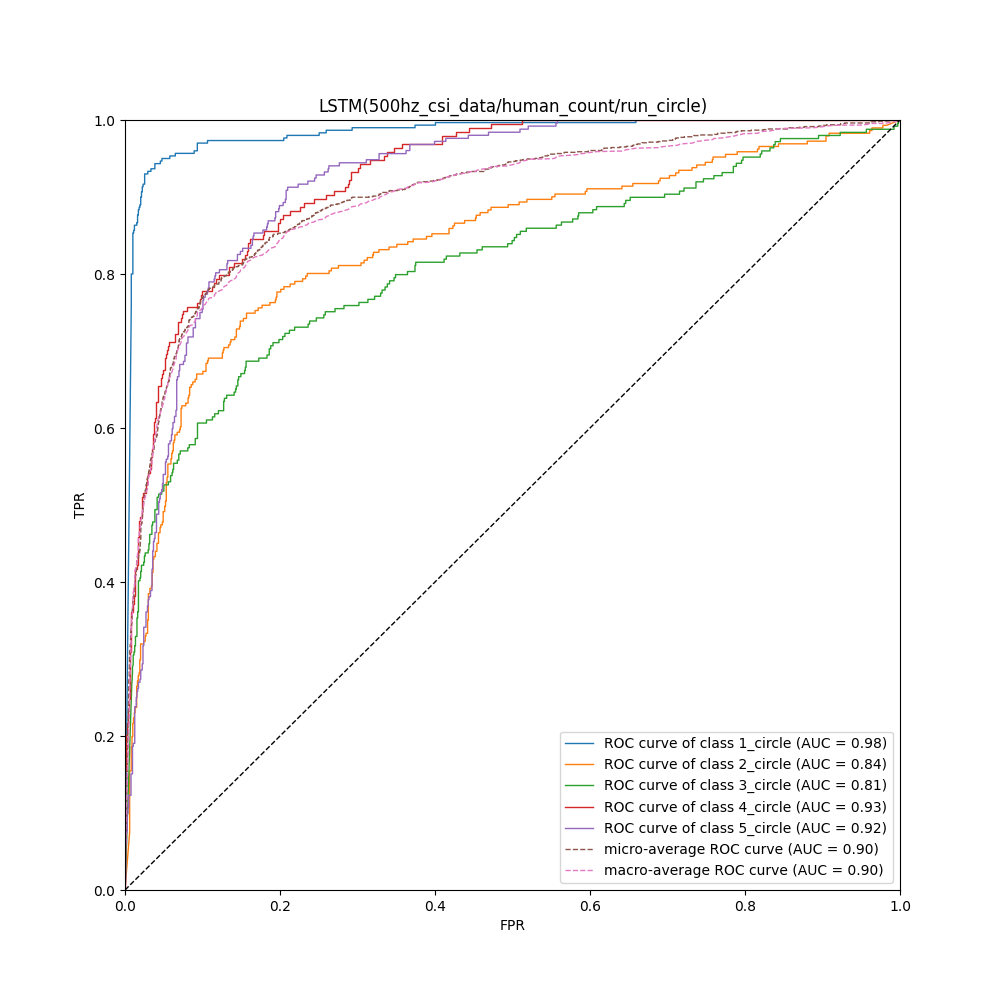
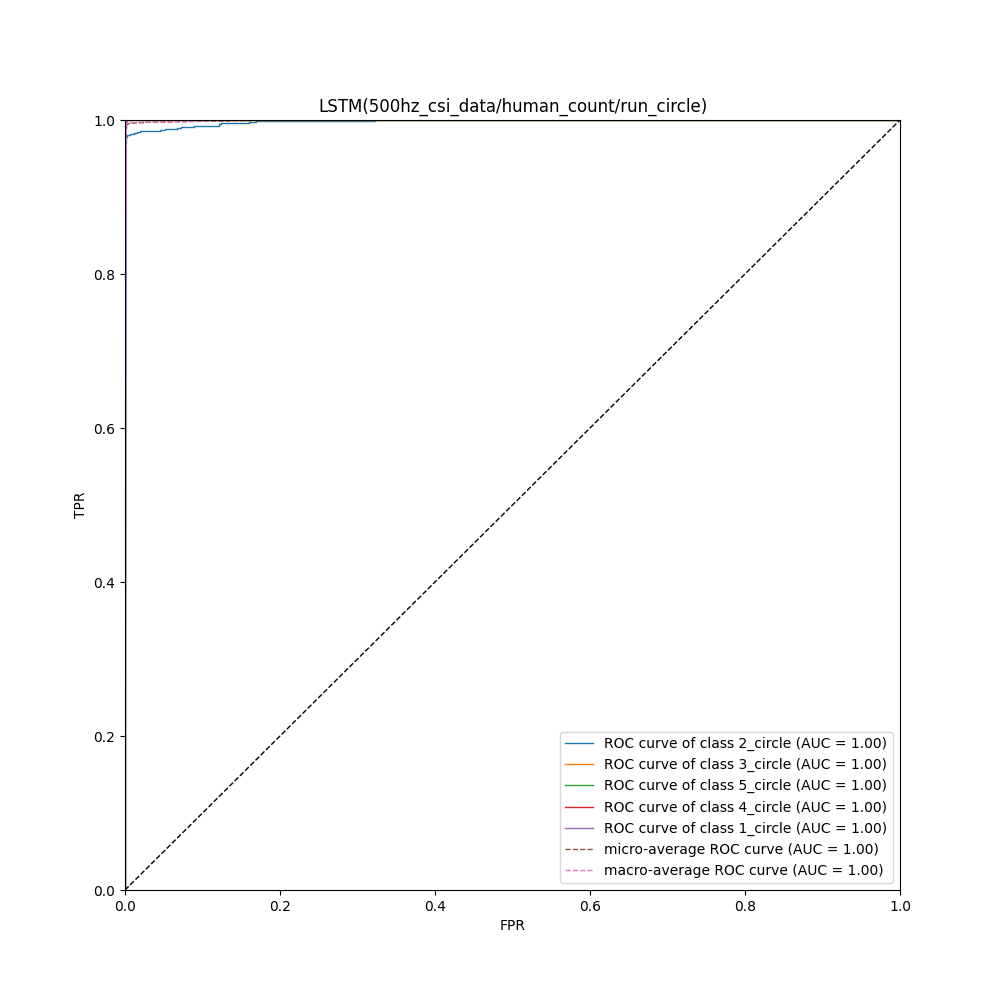
.

diff --git a/lstm.py b/lstm.py
@@ -19,6 +19,7 @@ class MyNN(nn.Module):
     def __init__(self, seq_len, d_in, d_out, d_hidden, lstm_layers=4):
         super(MyNN, self).__init__()
         self.in_proj = nn.Linear(in_features=d_in, out_features=d_hidden)  # 输入映射
+        self.norm = nn.LayerNorm(d_hidden)
         self.lstm = nn.LSTM(d_hidden, d_hidden, num_layers=lstm_layers)  # RNN网络
         self.aggr = nn.Conv1d(in_channels=seq_len, out_channels=1, kernel_size=1)  # 聚合函数
         self.out_proj = nn.Linear(d_hidden, d_out)  # 输出映射
@@ -27,6 +28,7 @@ class MyNN(nn.Module):
 
     def forward(self, x):
         x = self.in_proj(x)
+        x = self.norm(x)
         x, _ = self.lstm(x)
         x = self.aggr(x)
         x = self.out_proj(x)
@@ -36,10 +38,13 @@ class MyNN(nn.Module):
         #
         X_train = torch.from_numpy(D_train[0]).to(device=device, dtype=torch.float)
         y_train = torch.from_numpy(D_train[1]).to(device=device, dtype=torch.int64)
+        X_std, X_mean = torch.std_mean(X_train, dim=0, keepdim=True)
+        X_train = (X_train - X_mean) / X_std
         D_train = DataLoader(TensorDataset(X_train, y_train), batch_size, shuffle=True)
         #
         X_test = torch.from_numpy(D_test[0]).to(device=device, dtype=torch.float)
         y_test = torch.from_numpy(D_test[1]).to(device=device, dtype=torch.int64)
+        X_test = (X_test - X_mean) / X_std
         D_test = DataLoader(TensorDataset(X_test, y_test), batch_size, shuffle=False)
         #
         loss_fn = nn.CrossEntropyLoss()
@@ -85,7 +90,7 @@ class MyNN(nn.Module):
 if __name__ == "__main__":
     # 加载数据
     classes = os.listdir(f"data/{data_name}")
-    X, y, Y = load_data(f"data/{data_name}", classes, length=300, stride=30)
+    X, y, Y = load_data(f"data/{data_name}", classes, length=300, stride=10)
     # 切分数据
     X_train, X_test, y_train, y_test, Y_train, Y_test = train_test_split(
         X, y, Y, test_size=0.4, random_state=random_state
